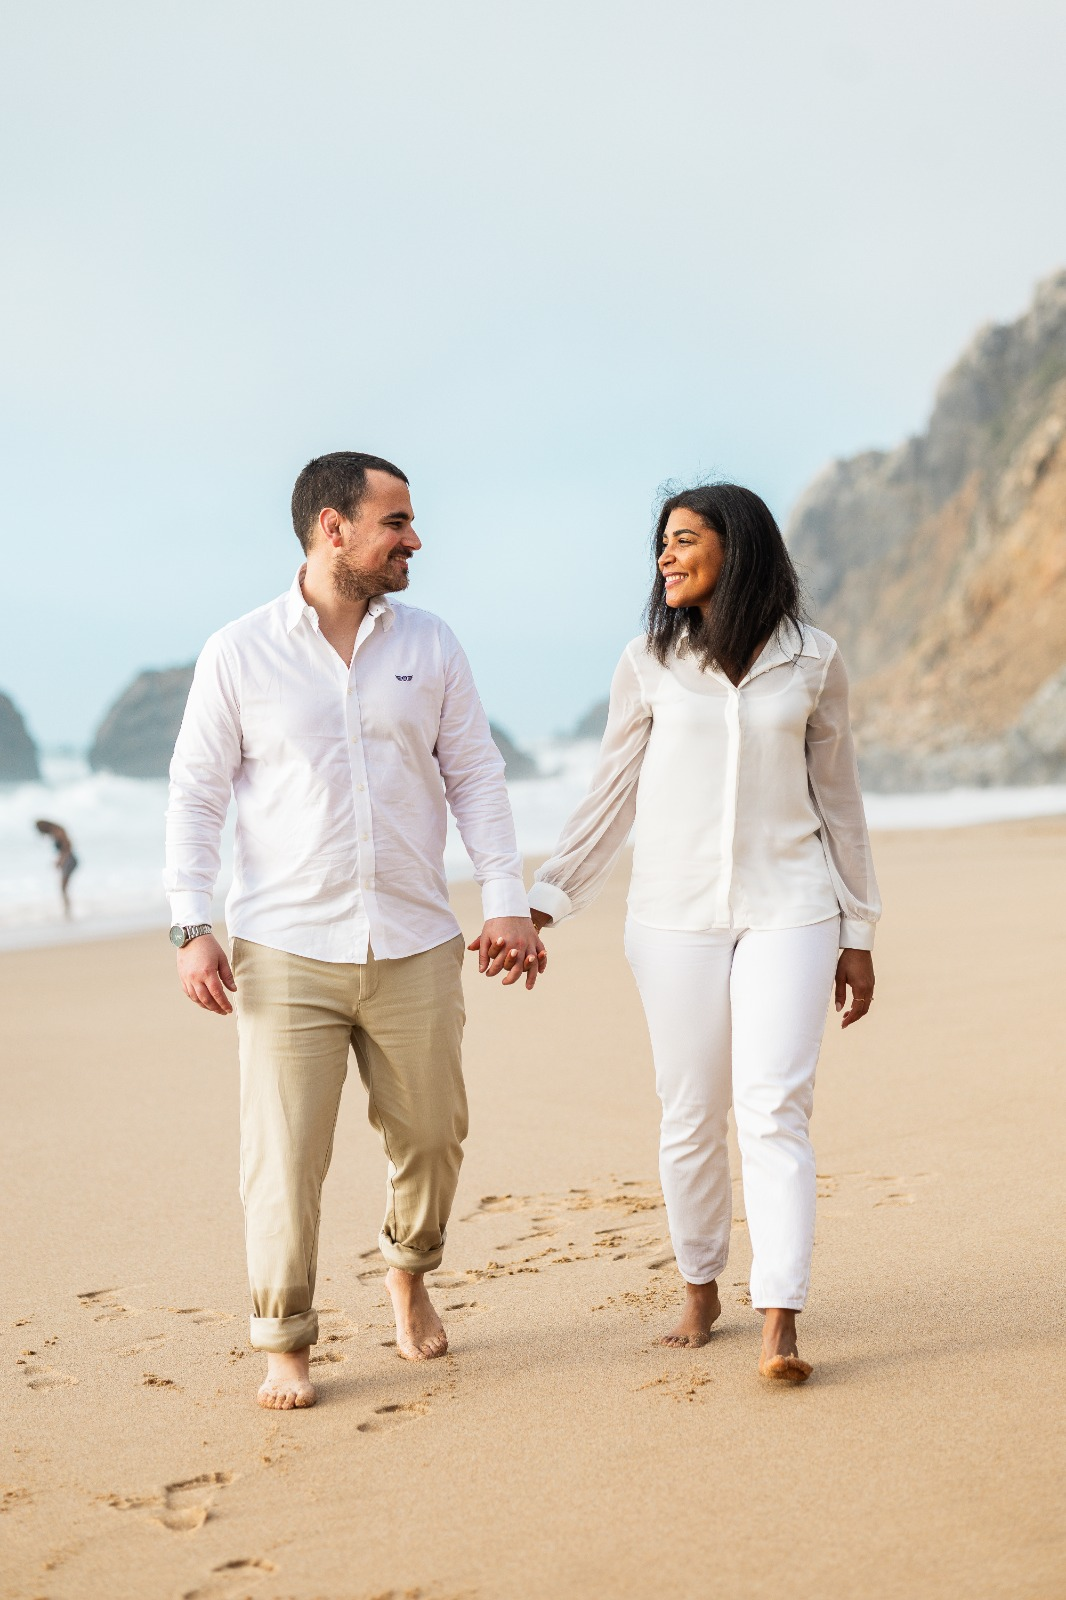
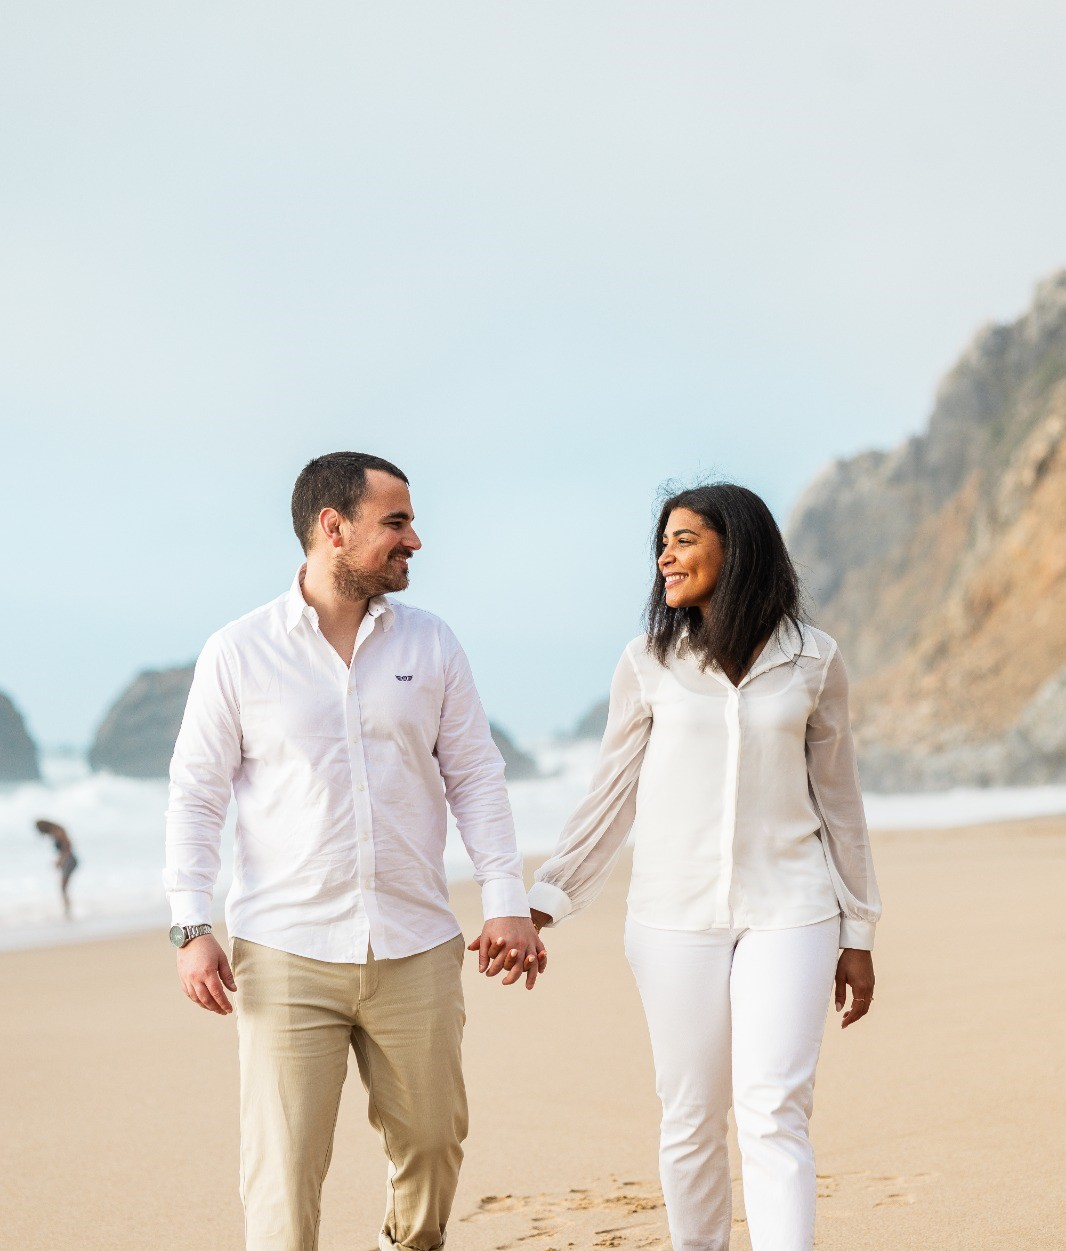
better

diff --git a/index.html b/index.html
@@ -3,7 +3,7 @@
   <head>
     <meta charset="UTF-8" />
     <meta name="viewport" content="width=device-width, initial-scale=1.0" />
-    <title>Bela &amp; Miguel</title>
+    <title>Edbela &amp; Miguel</title>
     <link rel="stylesheet" type="text/css" href="static/css/font-awesome.css" />
     <link rel="stylesheet" type="text/css" href="static/css/style.css" />
     <link rel="stylesheet" class="alternate-style" type="text/css" href="static/css/pink.css" />
@@ -55,7 +55,7 @@
           <div class="row align-items-center">
             <div class="home-content">
               <p data-i18n="home.getting_married">We're getting married!</p>
-              <h1>Bela &amp; Miguel</h1>
+              <h1>Edbela &amp; Miguel</h1>
               <span>12.09.2026</span>
             </div>
           </div>
@@ -69,7 +69,7 @@
           <div class="row align-items-center">
             <div class="home-content">
               <p data-i18n="home.getting_married">We're getting married!</p>
-              <h1>Bela &amp; Miguel</h1>
+              <h1>Edbela &amp; Miguel</h1>
               <span>12.09.2026</span>
             </div>
           </div>
@@ -83,7 +83,63 @@
           <div class="row align-items-center">
             <div class="home-content">
               <p data-i18n="home.getting_married">We're getting married!</p>
-              <h1>Bela &amp; Miguel</h1>
+              <h1>Edbela &amp; Miguel</h1>
+              <span data-i18n="home.wedding_date">12.09.2026</span>
+            </div>
+          </div>
+        </div>
+      </div>
+      <!-- slide end -->
+
+      <!-- slide start -->
+      <div class="slide" style='background-image: url("static/img/slides/4.jpeg")'>
+        <div class="container">
+          <div class="row align-items-center">
+            <div class="home-content">
+              <p data-i18n="home.getting_married">We're getting married!</p>
+              <h1>Edbela &amp; Miguel</h1>
+              <span data-i18n="home.wedding_date">12.09.2026</span>
+            </div>
+          </div>
+        </div>
+      </div>
+      <!-- slide end -->
+
+      <!-- slide start -->
+      <div class="slide" style='background-image: url("static/img/slides/5.jpeg")'>
+        <div class="container">
+          <div class="row align-items-center">
+            <div class="home-content">
+              <p data-i18n="home.getting_married">We're getting married!</p>
+              <h1>Edbela &amp; Miguel</h1>
+              <span data-i18n="home.wedding_date">12.09.2026</span>
+            </div>
+          </div>
+        </div>
+      </div>
+      <!-- slide end -->
+
+      <!-- slide start -->
+      <div class="slide" style='background-image: url("static/img/slides/6.jpeg")'>
+        <div class="container">
+          <div class="row align-items-center">
+            <div class="home-content">
+              <p data-i18n="home.getting_married">We're getting married!</p>
+              <h1>Edbela &amp; Miguel</h1>
+              <span data-i18n="home.wedding_date">12.09.2026</span>
+            </div>
+          </div>
+        </div>
+      </div>
+      <!-- slide end -->
+
+      <!-- slide start -->
+      <div class="slide" style='background-image: url("static/img/slides/7.jpeg")'>
+        <div class="container">
+          <div class="row align-items-center">
+            <div class="home-content">
+              <p data-i18n="home.getting_married">We're getting married!</p>
+              <h1>Edbela &amp; Miguel</h1>
               <span data-i18n="home.wedding_date">12.09.2026</span>
             </div>
           </div>
@@ -126,6 +182,9 @@
                 <i class="fas fa-heart"></i>
                 <div class="story-text">
                   <p data-i18n="story.first_meet_text">They say opposites attract… and maybe they're right. We met at work: he was calm, easygoing and patient; she was stressed, overthinking everything and always running at full speed. Somehow, it worked from the very beginning. While she complicates things, he simplifies them. While she overthinks, he reminds her to breathe. And somewhere in those differences, we found the perfect balance. Almost 7 years later, we still choose each other every single day — through conversations, laughter, plans, little adventures and many sunsets together. We learned that love can also be found in calm moments, quiet company and the feeling of being exactly where you belong. And now, here we are, ready for the next chapter. 🤍</p>
+                  <div class="story-img" style="padding: 0;">
+                  <img src="static/img/story/story-1.jpg" alt="First Meet" loading="lazy" />
+                </div>
                 </div>
                 <div class="story-img">
                   <img src="static/img/story/story-0.jpg" alt="First Meet" loading="lazy" />